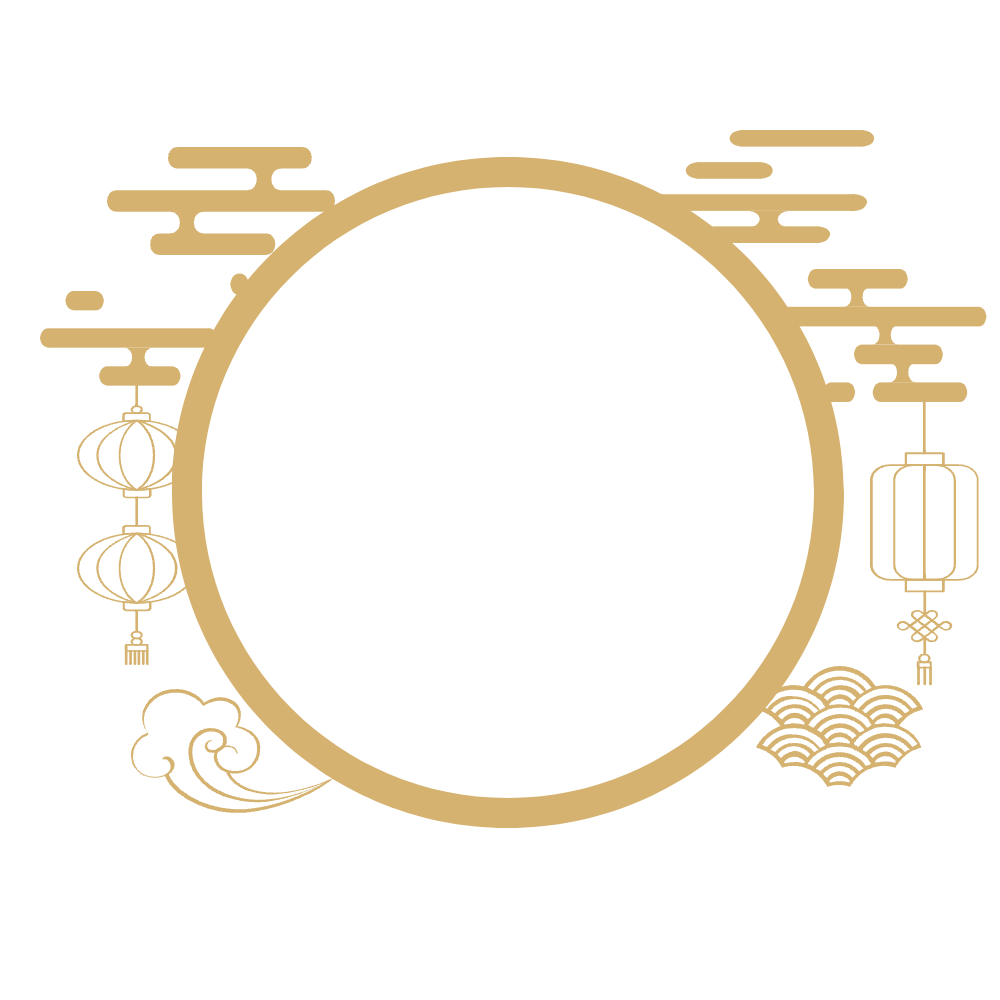
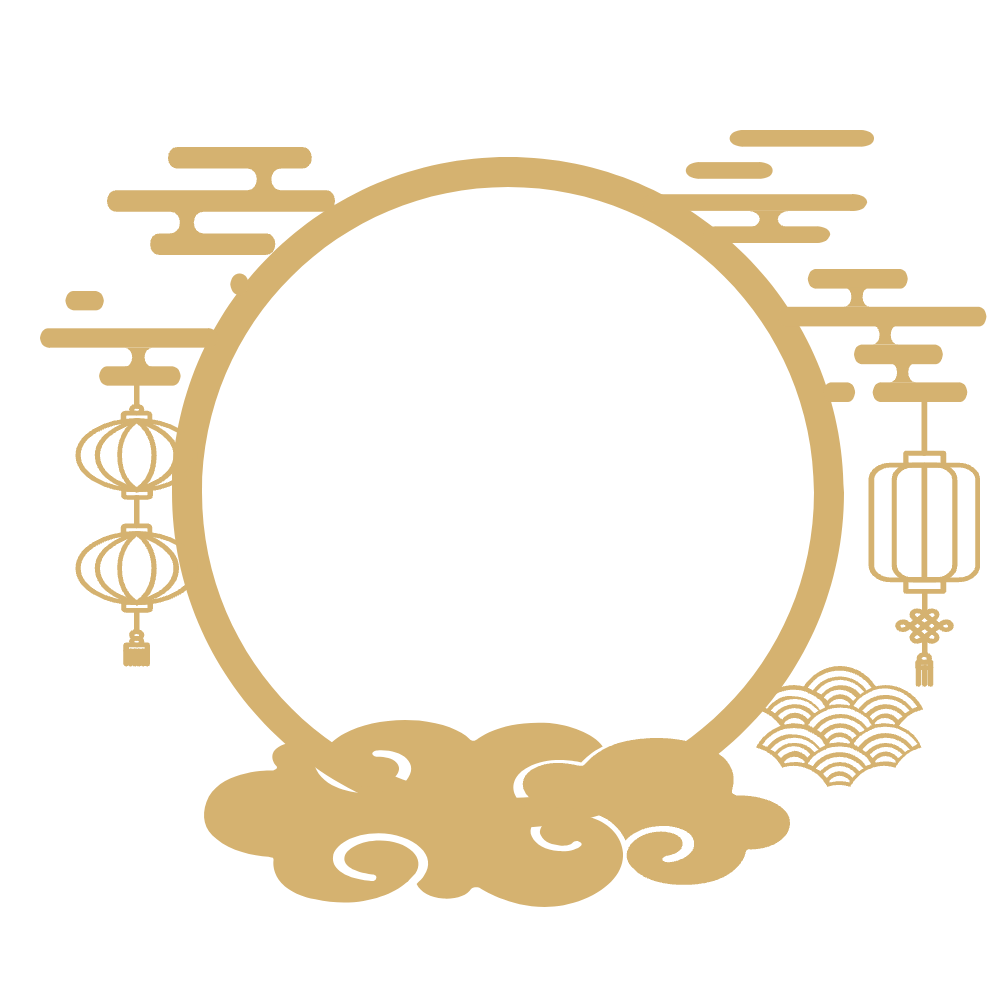
更新头像框相关内容，更新后请一键同步

Changed region(s): [[0.155, 0.682, 0.806, 0.93], [0.868, 0.403, 0.992, 0.682], [0.062, 0.403, 0.186, 0.682]]

diff --git a/apps/User/UserStart.js b/apps/User/UserStart.js
@@ -175,6 +175,16 @@ export class UserStart extends plugin {
                 "职业等级": 1
             }
         }
+        if (!new_player.all_touxiangkuang) {
+            new_player.all_touxiangkuang = [];
+            let Touxiang = data.Touxiang_list.find(item => item.name == "默认头像框")
+            new_player.all_touxiangkuang.push(Touxiang)
+        }
+        if (!new_player.zb_touxiangkuang) {
+            new_player.zb_touxiangkuang = [];
+            let Touxiang = data.Touxiang_list.find(item => item.name == "默认头像框")
+            new_player.zb_touxiangkuang.push(Touxiang)
+        }
         await Write_player(usr_qq, new_player);
         //初始化装备
         let new_equipment = {

diff --git a/apps/AdminSuper/AdminSuper.js b/apps/AdminSuper/AdminSuper.js
@@ -1297,6 +1297,16 @@ export async function synchronization(e) {
     if (!player.daofaxianshu_endtime) {
       player.daofaxianshu_endtime = 0;
     }
+    if (!player.all_touxiangkuang) {
+      player.all_touxiangkuang = [];
+      let Touxiang = data.Touxiang_list.find(item => item.name == "默认头像框")
+      player.all_touxiangkuang.push(Touxiang)
+    }
+    if (!player.zb_touxiangkuang) {
+      player.zb_touxiangkuang = [];
+      let Touxiang = data.Touxiang_list.find(item => item.name == "默认头像框")
+      player.zb_touxiangkuang.push(Touxiang)
+    }
     // if (!isNotNull(player.辟谷丹)) {
     //     player.辟谷丹 = 0;
     // }

diff --git a/model/XiuxianData.js b/model/XiuxianData.js
@@ -68,6 +68,9 @@ class XiuxianData {
         //炼体境界
         this.LevelMax_list = JSON.parse(fs.readFileSync(`${this.Level}/炼体境界.json`));
 
+        //特殊
+        //头像框
+        this.Touxiang_list = JSON.parse(fs.readFileSync(`${this.Level}/特殊/头像框.json`));
 
         //加载装备列表
         this.equipment_list = JSON.parse(fs.readFileSync(`${this.lib_path}/装备列表.json`));

diff --git a/apps/ShowImeg/showData.js b/apps/ShowImeg/showData.js
@@ -988,11 +988,7 @@ export async function get_player_img(e) {
     let lingshi = Math.trunc(player.灵石);
 
     //头像框
-    let now_Time = new Date().getTime(); //获取当前时间戳
-    let touxiang = "user_top_img_bottom"
-    if (player.daofaxianshu_endtime > now_Time) {
-        touxiang = "user_head_pic_2"
-    }
+    let touxiang = player.zb_touxiangkuang.id
 
 
     if (player.灵石 > 999999999999) {
